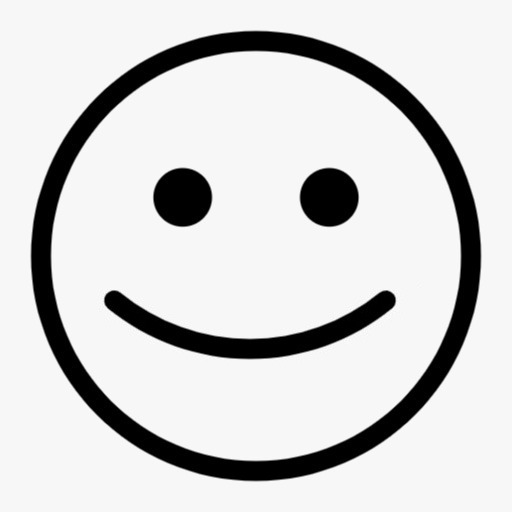
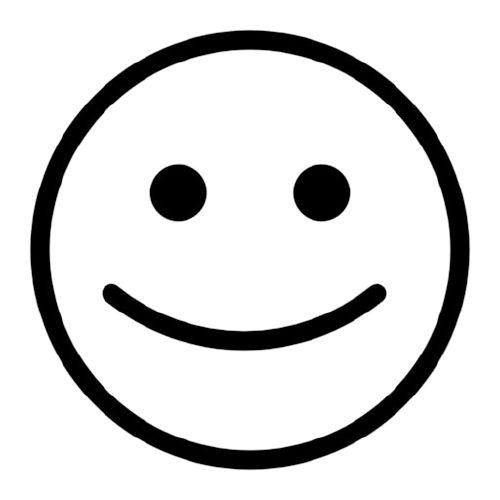
aww

diff --git a/zenyu.php b/zenyu.php
@@ -27,7 +27,7 @@
         <div class='row'>
             <div class='col-sm d-flex justify-content-center' >
                 <img  v-if="travel_history.length===0" src='./images/sad.png' class='img-fluid d-flex justify-content-center '></img>
-                <img  v-else src='./images/happy.png' class='img-fluid d-flex justify-content-center'></img>
+                <img  v-else src='./images/happy.jpg' class='img-fluid d-flex justify-content-center'></img>
             </div>
         </div>
 
